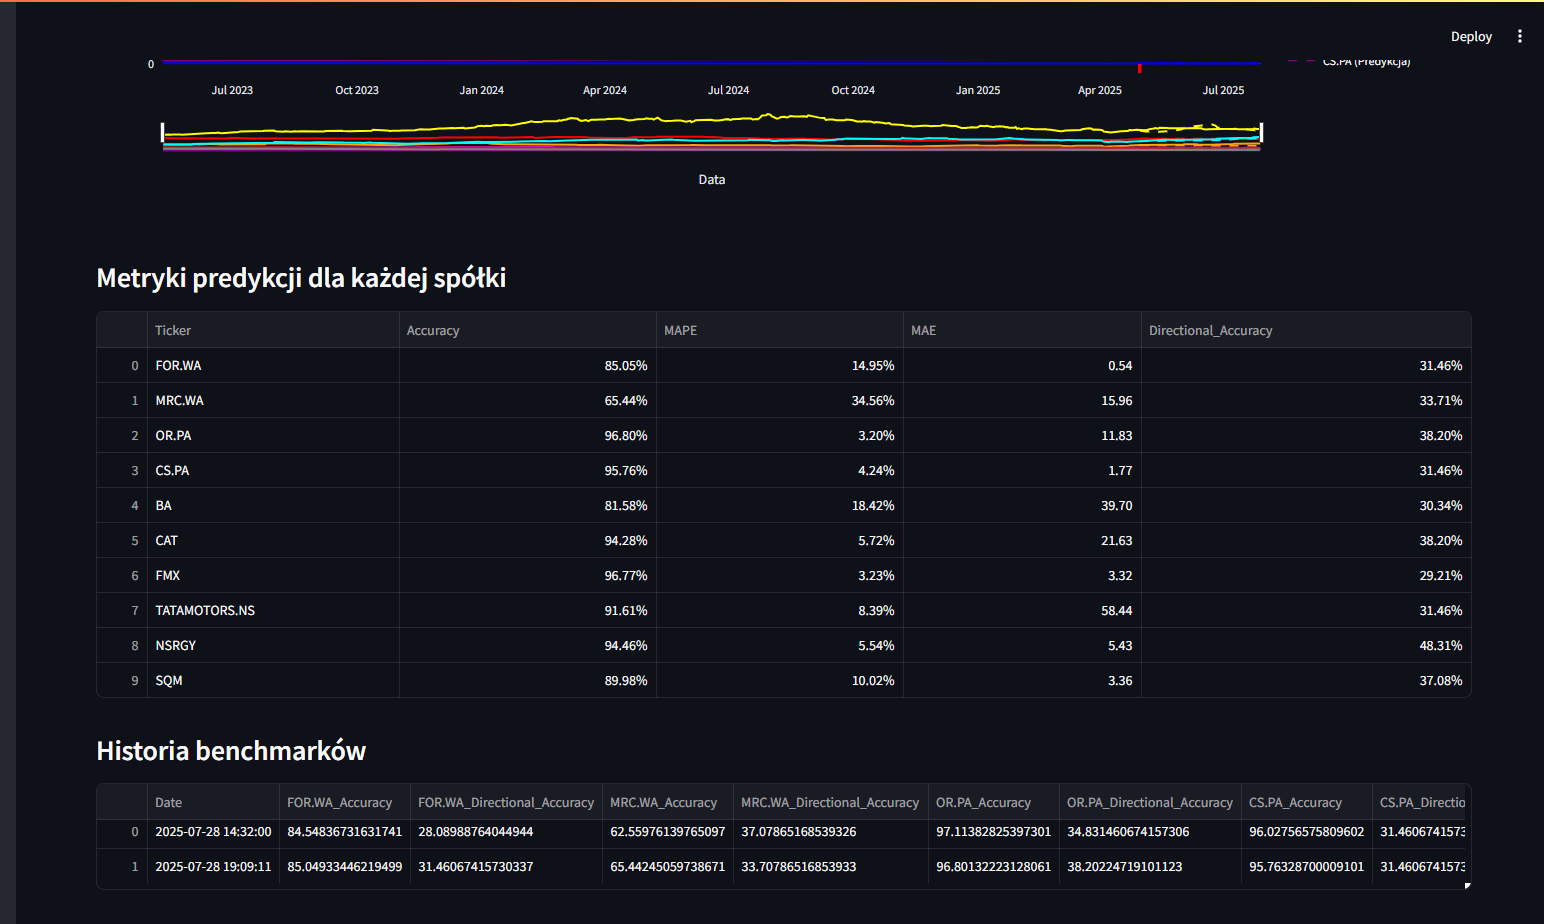
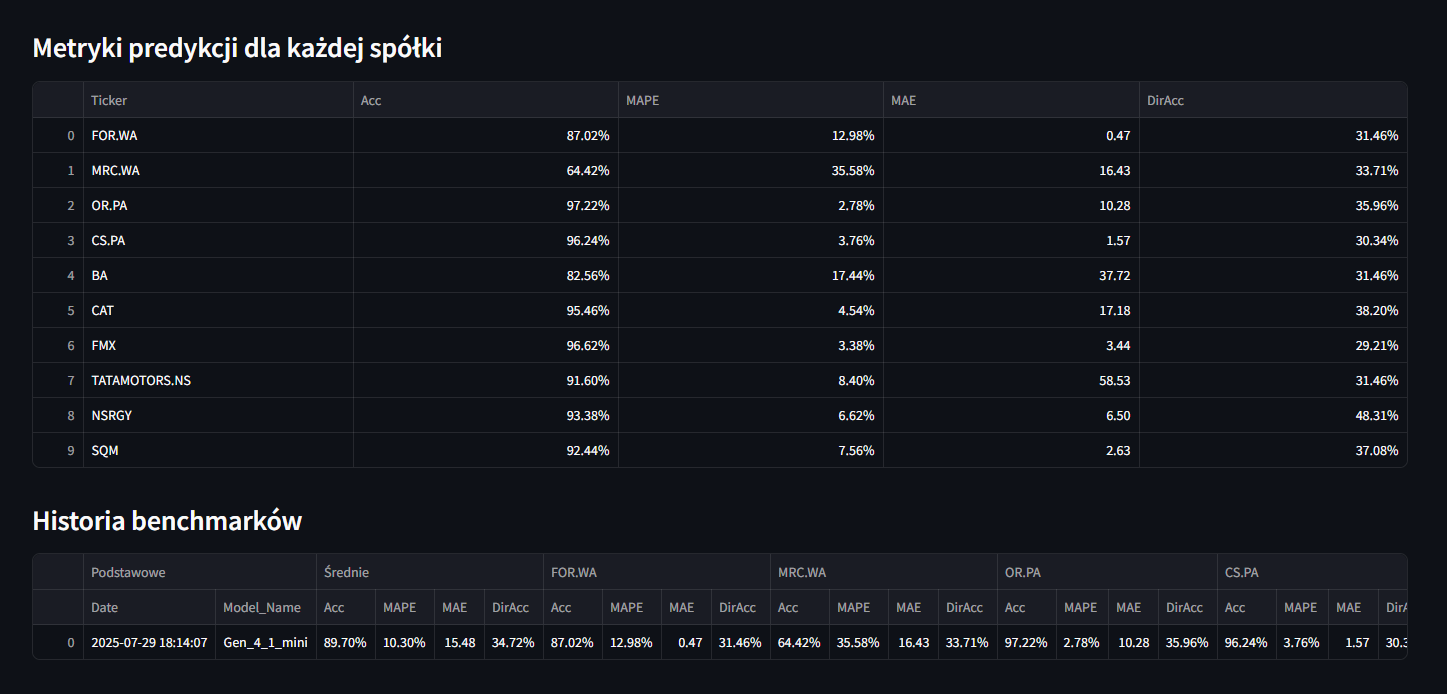
feat: Enhance benchmark metrics and CSV saving functionality with model name

diff --git a/app/benchmark_utils.py b/app/benchmark_utils.py
@@ -117,10 +117,10 @@ async def process_ticker(ticker, full_data, config, temp_raw_data_path, max_pred
             'predictions': median.tolist(),
             'historical_pred_close': historical_pred_close,
             'metrics': {
-                'Accuracy': accuracy,
+                'Acc': accuracy,
                 'MAPE': mape,
                 'MAE': mae,
-                'Directional_Accuracy': directional_accuracy
+                'DirAcc': directional_accuracy
             }
         }
 
@@ -133,34 +133,35 @@ async def process_ticker(ticker, full_data, config, temp_raw_data_path, max_pred
             logger.info(f"Temporary file {temp_raw_data_path} removed.")
 
 async def create_benchmark_plot(config, benchmark_tickers, historical_close_dict):
-    """Creates benchmark plot and calculates metrics for multiple tickers asynchronously."""
+    """Tworzy wykres benchmarku i oblicza metryki dla wielu tickerów asynchronicznie."""
     all_results = {}
     accuracy_scores = {}
     temp_raw_data_path = 'data/temp_benchmark_data.csv'
     max_prediction_length = config['model']['max_prediction_length']
     trim_date = pd.Timestamp(datetime.now(), tz='UTC') - pd.Timedelta(days=max_prediction_length)
     start_date = trim_date - pd.Timedelta(days=720)
+    model_name = config['model_name']
 
-    # Fetch data for all tickers
-    logger.info("Fetching data for all tickers...")
+    # Pobieranie danych dla wszystkich tickerów
+    logger.info("Pobieranie danych dla wszystkich tickerów...")
     tasks = [fetch_ticker_data(ticker, start_date, datetime.now()) for ticker in benchmark_tickers]
     ticker_data_results = await asyncio.gather(*tasks)
     ticker_data_dict = {ticker: data for ticker, data in ticker_data_results if data is not None}
 
     if not ticker_data_dict:
-        logger.error("Failed to fetch data for any ticker.")
+        logger.error("Nie udało się pobrać danych dla żadnego tickera.")
         return accuracy_scores
 
-    # Load model once
-    logger.info("Loading model and data...")
+    # Wczytanie modelu raz
+    logger.info("Wczytywanie modelu i danych...")
     first_ticker = next(iter(ticker_data_dict))
     first_data = ticker_data_dict[first_ticker]
     first_data.reset_index().to_csv(temp_raw_data_path, index=False)
     _, dataset, normalizers, model = load_data_and_model(config, first_ticker, temp_raw_data_path, historical_mode=True)
-    logger.info(f"Model, dataset, and normalizers loaded successfully for {first_ticker}")
+    logger.info(f"Model, dataset i normalizatory wczytane pomyślnie dla {first_ticker}")
 
     try:
-        # Process tickers asynchronously
+        # Przetwarzanie tickerów asynchronicznie
         tasks = [
             process_ticker(ticker, data, config, temp_raw_data_path, max_prediction_length, trim_date, dataset, normalizers, model)
             for ticker, data in ticker_data_dict.items()
@@ -170,12 +171,12 @@ async def create_benchmark_plot(config, benchmark_tickers, historical_close_dict
         for ticker, result in results:
             if result is not None and isinstance(result, dict):
                 all_results[ticker] = result
-                accuracy_scores[ticker] = result['metrics']['Accuracy']
+                accuracy_scores[ticker] = result['metrics']['Acc']
             else:
-                logger.warning(f"Skipped ticker {ticker} due to invalid result data.")
+                logger.warning(f"Pominięto ticker {ticker} z powodu niepoprawnych danych.")
                 accuracy_scores[ticker] = 0.0
 
-        # Create plot
+        # Tworzenie wykresu
         fig = go.Figure()
         colors = ['#0000FF', '#00FF00', '#FF0000', '#800080', '#FFA500', '#00FFFF', '#FF00FF', '#FFFF00', '#A52A2A', '#808080']
 
@@ -192,7 +193,7 @@ async def create_benchmark_plot(config, benchmark_tickers, historical_close_dict
             all_pred_close = [None] * len(historical_dates) + predictions
 
             if len(all_dates) != len(all_close) or len(all_dates) != len(all_pred_close):
-                logger.error(f"Length mismatch for {ticker}: all_dates={len(all_dates)}, all_close={len(all_close)}, all_pred_close={len(all_pred_close)}")
+                logger.error(f"Niezgodność długości dla {ticker}: all_dates={len(all_dates)}, all_close={len(all_close)}, all_pred_close={len(all_pred_close)}")
                 continue
 
             plot_data = pd.DataFrame({
@@ -255,20 +256,32 @@ async def create_benchmark_plot(config, benchmark_tickers, historical_close_dict
 
         st.plotly_chart(fig, use_container_width=True)
 
-        # Display metrics
+        # Wyświetlanie metryk w zwykłej tabeli
         st.subheader("Metryki predykcji dla każdej spółki")
-        metrics_df = pd.DataFrame({
-            ticker: data['metrics'] for ticker, data in all_results.items()
-        }).T.reset_index().rename(columns={'index': 'Ticker'})
-        st.dataframe(metrics_df.style.format({
-            'Accuracy': '{:.2f}%',
-            'MAPE': '{:.2f}%',
-            'MAE': '{:.2f}',
-            'Directional_Accuracy': '{:.2f}%'
-        }))
+        metrics_data = []
+        for ticker, data in all_results.items():
+            metrics = data['metrics']
+            metrics_data.append({
+                'Ticker': ticker,
+                'Acc': metrics['Acc'],
+                'MAPE': metrics['MAPE'],
+                'MAE': metrics['MAE'],
+                'DirAcc': metrics['DirAcc']
+            })
+        metrics_df = pd.DataFrame(metrics_data)
+
+        if not metrics_df.empty:
+            # Formatowanie wartości do wyświetlenia
+            format_dict = {
+                'Acc': '{:.2f}%',
+                'MAPE': '{:.2f}%',
+                'MAE': '{:.2f}',
+                'DirAcc': '{:.2f}%'
+            }
+            st.dataframe(metrics_df.style.format(format_dict))
 
     finally:
-        # Clean up resources
+        # Sprzątanie zasobów
         if model is not None:
             del model
         if dataset is not None:
@@ -277,24 +290,24 @@ async def create_benchmark_plot(config, benchmark_tickers, historical_close_dict
             del normalizers
         if torch.cuda.is_available():
             torch.cuda.empty_cache()
-            logger.info(f"GPU memory after cleanup: {torch.cuda.memory_allocated() / 1024**2:.2f} MB")
+            logger.info(f"Pamięć GPU po sprzątaniu: {torch.cuda.memory_allocated() / 1024**2:.2f} MB")
         if os.path.exists(temp_raw_data_path):
             os.remove(temp_raw_data_path)
-            logger.info(f"Temporary file {temp_raw_data_path} removed.")
+            logger.info(f"Usunięto plik tymczasowy {temp_raw_data_path}.")
 
     return all_results
 
-def save_benchmark_to_csv(benchmark_date, all_results):
-    """Saves benchmark results to CSV with history, including all metrics."""
+def save_benchmark_to_csv(benchmark_date, all_results, model_name):
+    """Saves benchmark results to CSV with history, including all metrics and model name."""
     csv_file = 'data/benchmarks_history.csv'
-    metrics = ['Accuracy', 'MAPE', 'MAE', 'Directional_Accuracy']
-    columns = ['Date']
+    metrics = ['Acc', 'MAPE', 'MAE', 'DirAcc']
+    columns = ['Date', 'Model_Name']
     for ticker in all_results.keys():
         for metric in metrics:
             columns.append(f"{ticker}_{metric}")
-    columns.extend(['Average_' + metric for metric in metrics])
+    columns.extend(['Avg_' + metric for metric in metrics])
     
-    metrics_data = {'Date': [benchmark_date]}
+    metrics_data = {'Date': [benchmark_date], 'Model_Name': [model_name]}
     valid_metrics = {}
     
     for ticker, data in all_results.items():
@@ -311,10 +324,10 @@ def save_benchmark_to_csv(benchmark_date, all_results):
     if valid_metrics:
         for metric in metrics:
             values = [m.get(metric, 0.0) for m in valid_metrics.values() if m.get(metric, 0.0) != 0.0]
-            metrics_data[f"Average_{metric}"] = [np.mean(values) if values else 0.0]
+            metrics_data[f"Avg_{metric}"] = [np.mean(values) if values else 0.0]
     else:
         for metric in metrics:
-            metrics_data[f"Average_{metric}"] = [0.0]
+            metrics_data[f"Avg_{metric}"] = [0.0]
     
     new_data = pd.DataFrame(metrics_data)
     
@@ -328,17 +341,41 @@ def save_benchmark_to_csv(benchmark_date, all_results):
     logger.info(f"Benchmark results saved to {csv_file}")
 
 def load_benchmark_history(benchmark_tickers):
-    """Loads benchmark history from CSV."""
+    """Loads benchmark history from CSV with nested headers."""
     csv_file = 'data/benchmarks_history.csv'
-    columns = ['Date']
-    for ticker in benchmark_tickers:
-        columns.extend([f"{ticker}_Accuracy", f"{ticker}_Directional_Accuracy"])
-    columns.extend(['Average_Accuracy', 'Average_Directional_Accuracy'])
+    metrics = ['Acc', 'MAPE', 'MAE', 'DirAcc']
     
     if os.path.exists(csv_file):
         df = pd.read_csv(csv_file, dtype=str)
-        missing_cols = [col for col in columns if col not in df.columns]
-        for col in missing_cols:
-            df[col] = '0.0'
-        return df[columns].fillna('0.0')
-    return pd.DataFrame(columns=columns).fillna('0.0')
+        
+        # Create MultiIndex for columns in desired order: Podstawowe, Średnie, then per-ticker metrics
+        columns = ['Date', 'Model_Name']
+        multi_columns = [('Podstawowe', 'Date'), ('Podstawowe', 'Model_Name')]
+        for metric in metrics:
+            columns.append(f"Avg_{metric}")
+            multi_columns.append(('Średnie', metric))
+        for ticker in benchmark_tickers:
+            for metric in metrics:
+                columns.append(f"{ticker}_{metric}")
+                multi_columns.append((ticker, metric))
+        multi_columns = pd.MultiIndex.from_tuples(multi_columns)
+        
+        # Select and rename columns
+        df = df[columns].fillna('0.0')
+        
+        # Create DataFrame with MultiIndex
+        df.columns = multi_columns
+        
+        # Convert to numeric for proper formatting
+        for col in df.columns:
+            if col[0] != 'Podstawowe':  # Skip Date and Model_Name
+                df[col] = pd.to_numeric(df[col], errors='coerce').fillna(0.0)
+        
+        return df
+    else:
+        # Create empty DataFrame with MultiIndex
+        multi_columns = pd.MultiIndex.from_tuples([('Podstawowe', 'Date'), ('Podstawowe', 'Model_Name')] + 
+                                                 [('Średnie', metric) for metric in metrics] +
+                                                 [(ticker, metric) for ticker in benchmark_tickers for metric in metrics])
+        df = pd.DataFrame(columns=multi_columns).fillna('0.0')
+        return df

diff --git a/app/app.py b/app/app.py
@@ -180,7 +180,7 @@ def main():
                         create_benchmark_plot(config, benchmark_tickers, {})
                     )
                     benchmark_date = datetime.now().strftime('%Y-%m-%d %H:%M:%S')
-                    save_benchmark_to_csv(benchmark_date, all_results)
+                    save_benchmark_to_csv(benchmark_date, all_results, config['model_name'])
                 except Exception as e:
                     logger.error(f"Error generating benchmark: {e}")
                     st.error(f"Wystąpił błąd podczas generowania benchmarku: {str(e)}")
@@ -191,7 +191,19 @@ def main():
 
         st.subheader("Historia benchmarków")
         benchmark_history = load_benchmark_history(benchmark_tickers)
-        st.dataframe(benchmark_history)
+        format_dict = {
+            ('Podstawowe', 'Date'): '{}',
+            ('Podstawowe', 'Model_Name'): '{}'
+        }
+        for ticker in benchmark_tickers:
+            format_dict[(ticker, 'Acc')] = '{:.2f}%'
+            format_dict[(ticker, 'MAPE')] = '{:.2f}%'
+            format_dict[(ticker, 'MAE')] = '{:.2f}'
+            format_dict[(ticker, 'DirAcc')] = '{:.2f}%'
+        for metric in ['Acc', 'MAPE', 'DirAcc']:
+            format_dict[('Średnie', metric)] = '{:.2f}%'
+        format_dict[('Średnie', 'MAE')] = '{:.2f}'
+        st.dataframe(benchmark_history.style.format(format_dict))
 
 if __name__ == "__main__":
     main()
